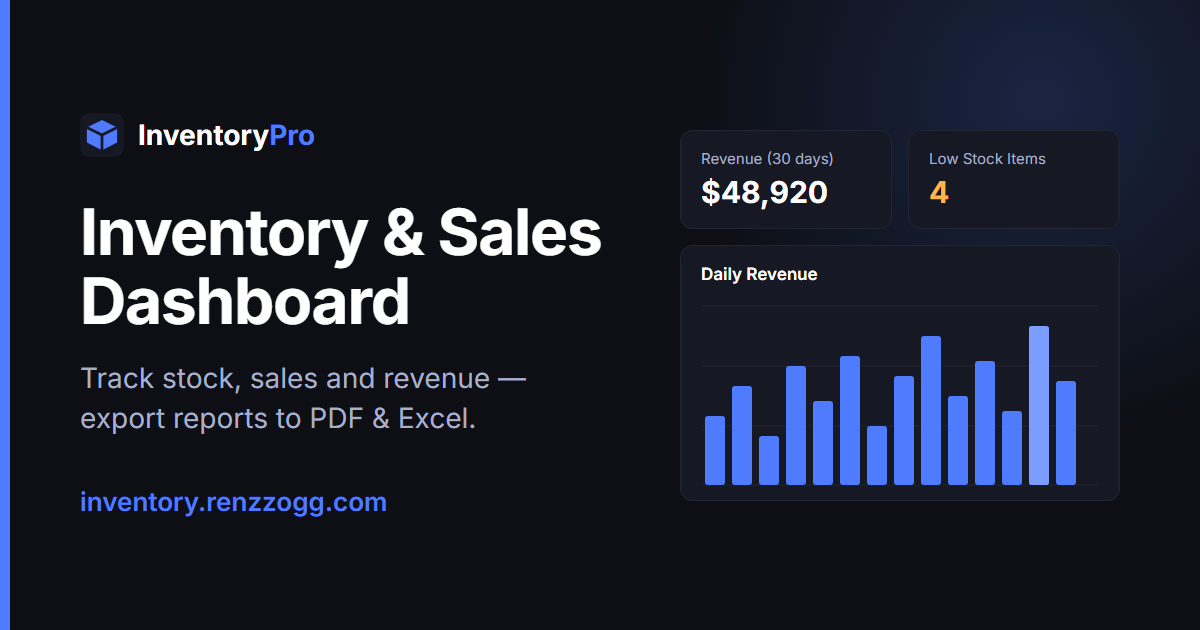
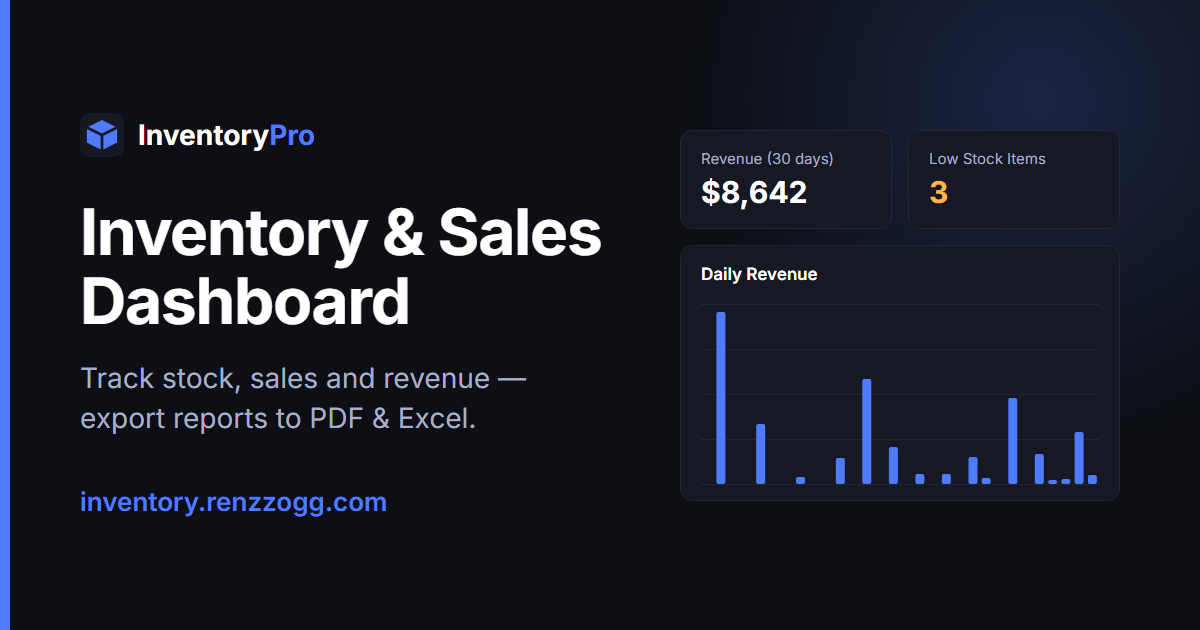
Usa las cifras y la forma real de los ingresos diarios en la imagen OG

Changed region(s): [[0.5858, 0.4825, 0.925, 0.7841], [0.5858, 0.2714, 0.7092, 0.3317], [0.7708, 0.2714, 0.8017, 0.3317]]

diff --git a/docs/og-image.html b/docs/og-image.html
@@ -177,39 +177,47 @@
     <div class="cards">
       <div class="card">
         <p class="card-label">Revenue (30 days)</p>
-        <p class="card-value">$48,920</p>
+        <p class="card-value">$8,642</p>
       </div>
       <div class="card">
         <p class="card-label">Low Stock Items</p>
-        <p class="card-value warning">4</p>
+        <p class="card-value warning">3</p>
       </div>
     </div>
     <div class="chart">
       <p class="chart-title">Daily Revenue</p>
+      <!--
+        Ingresos diarios reales de los últimos 30 días (getDailyRevenue(30) de app.js).
+        Las ventas de ejemplo se definen como "hace N días", así que la forma no cambia.
+        Escala: $0–$2,400 (igual que el eje de la gráfica real), 30 columnas de 398/30 px;
+        los días sin ventas no llevan barra.
+      -->
       <svg width="398" height="190" viewBox="0 0 398 190">
         <g stroke="#222632" stroke-width="1">
-          <line x1="0" y1="10" x2="398" y2="10"/>
-          <line x1="0" y1="70" x2="398" y2="70"/>
-          <line x1="0" y1="130" x2="398" y2="130"/>
-          <line x1="0" y1="189" x2="398" y2="189"/>
+          <line x1="0" y1="8.5" x2="398" y2="8.5"/>
+          <line x1="0" y1="53.5" x2="398" y2="53.5"/>
+          <line x1="0" y1="98.5" x2="398" y2="98.5"/>
+          <line x1="0" y1="143.5" x2="398" y2="143.5"/>
+          <line x1="0" y1="188.5" x2="398" y2="188.5"/>
         </g>
         <g fill="#4f7cff">
-          <rect x="4"   y="120" width="20" height="69"  rx="3"/>
-          <rect x="31"  y="90"  width="20" height="99"  rx="3"/>
-          <rect x="58"  y="140" width="20" height="49"  rx="3"/>
-          <rect x="85"  y="70"  width="20" height="119" rx="3"/>
-          <rect x="112" y="105" width="20" height="84"  rx="3"/>
-          <rect x="139" y="60"  width="20" height="129" rx="3"/>
-          <rect x="166" y="130" width="20" height="59"  rx="3"/>
-          <rect x="193" y="80"  width="20" height="109" rx="3"/>
-          <rect x="220" y="40"  width="20" height="149" rx="3"/>
-          <rect x="247" y="100" width="20" height="89"  rx="3"/>
-          <rect x="274" y="65"  width="20" height="124" rx="3"/>
-          <rect x="301" y="115" width="20" height="74"  rx="3"/>
-          <rect x="328" y="30"  width="20" height="159" rx="3"/>
-          <rect x="355" y="85"  width="20" height="104" rx="3"/>
+          <rect x="15.4" y="16" width="9" height="172" rx="2"/>
+          <rect x="55.2" y="128" width="9" height="60" rx="2"/>
+          <rect x="95" y="181" width="9" height="7" rx="2"/>
+          <rect x="134.8" y="162" width="9" height="26" rx="2"/>
+          <rect x="161.3" y="83" width="9" height="105" rx="2"/>
+          <rect x="187.9" y="151" width="9" height="37" rx="2"/>
+          <rect x="214.4" y="178" width="9" height="10" rx="2"/>
+          <rect x="240.9" y="178" width="9" height="10" rx="2"/>
+          <rect x="267.5" y="161" width="9" height="27" rx="2"/>
+          <rect x="280.7" y="182" width="9" height="6" rx="2"/>
+          <rect x="307.3" y="102" width="9" height="86" rx="2"/>
+          <rect x="333.8" y="158" width="9" height="30" rx="2"/>
+          <rect x="347.1" y="184" width="9" height="4" rx="2"/>
+          <rect x="360.3" y="183" width="9" height="5" rx="2"/>
+          <rect x="373.6" y="136" width="9" height="52" rx="2"/>
+          <rect x="386.9" y="179" width="9" height="9" rx="2"/>
         </g>
-        <rect x="328" y="30" width="20" height="159" rx="3" fill="#7b9dff"/>
       </svg>
     </div>
   </div>

diff --git a/CLAUDE.md b/CLAUDE.md
@@ -39,7 +39,8 @@ CLAUDE.md
 ## Imagen OG y capturas
 
 - `og-image.png` se genera desde `docs/og-image.html` con Chrome headless (el comando está en el comentario de la plantilla). Si cambia el nombre, la frase o los colores del proyecto, se regenera.
-- Desde WSL se usa el Chrome de Windows (`/mnt/c/Program Files/Google/Chrome/Application/chrome.exe`, con la ruta de salida pasada por `wslpath -w`): el `chrome-headless-shell` de `~/.cache/puppeteer` no arranca porque le falta `libnss3`.
+- Desde WSL se usa el Chrome de Windows (`/mnt/c/Program Files/Google/Chrome/Application/chrome.exe`, con la ruta de salida pasada por `wslpath -w`): el `chrome-headless-shell` de `~/.cache/puppeteer` no arranca porque le falta `libnss3`. Si al sobrescribir `og-image.png` sale "el archivo está siendo utilizado por otro proceso", captura a un archivo temporal y cópialo encima con `cp`.
+- Las cifras y las barras de la plantilla salen de los datos de `app.js` (Revenue 30 days, Low Stock Items y `getDailyRevenue(30)`). Si cambian las ventas o los productos de ejemplo, actualiza la plantilla y regenera la imagen.
 - En headless, Chrome para Windows no baja de unos 492 px de ancho de layout, aunque `--window-size` diga 390. Para capturas de móvil, carga la página dentro de un `<iframe>` de 390×844 en una página auxiliar temporal (que no se commitea).
 
 ## Forma de trabajo
